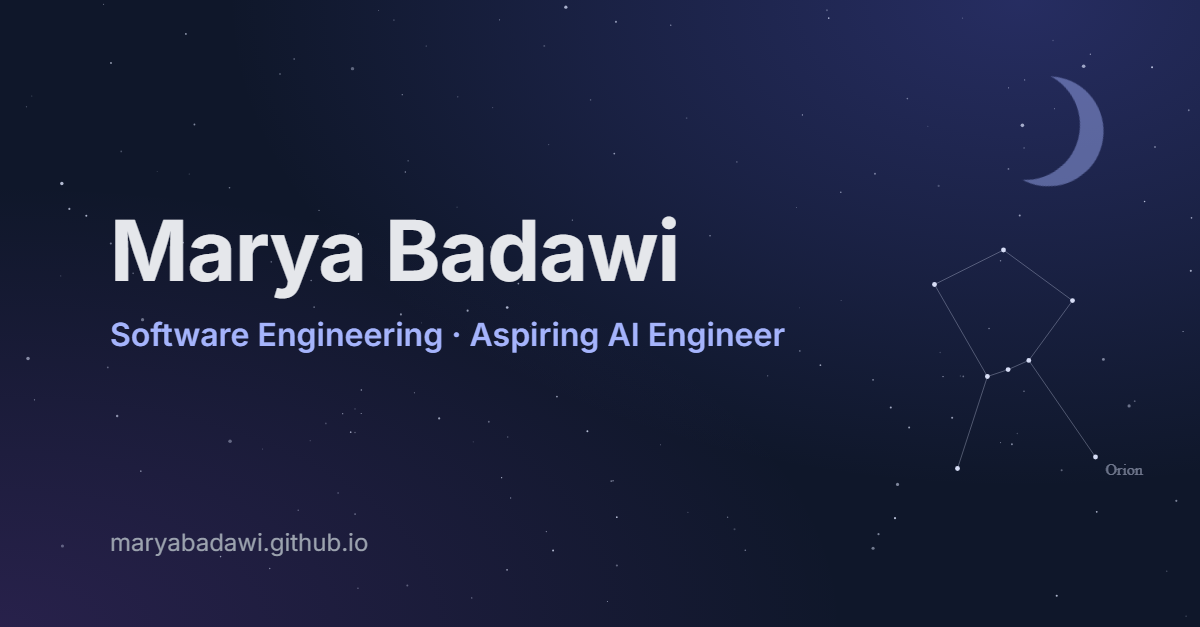
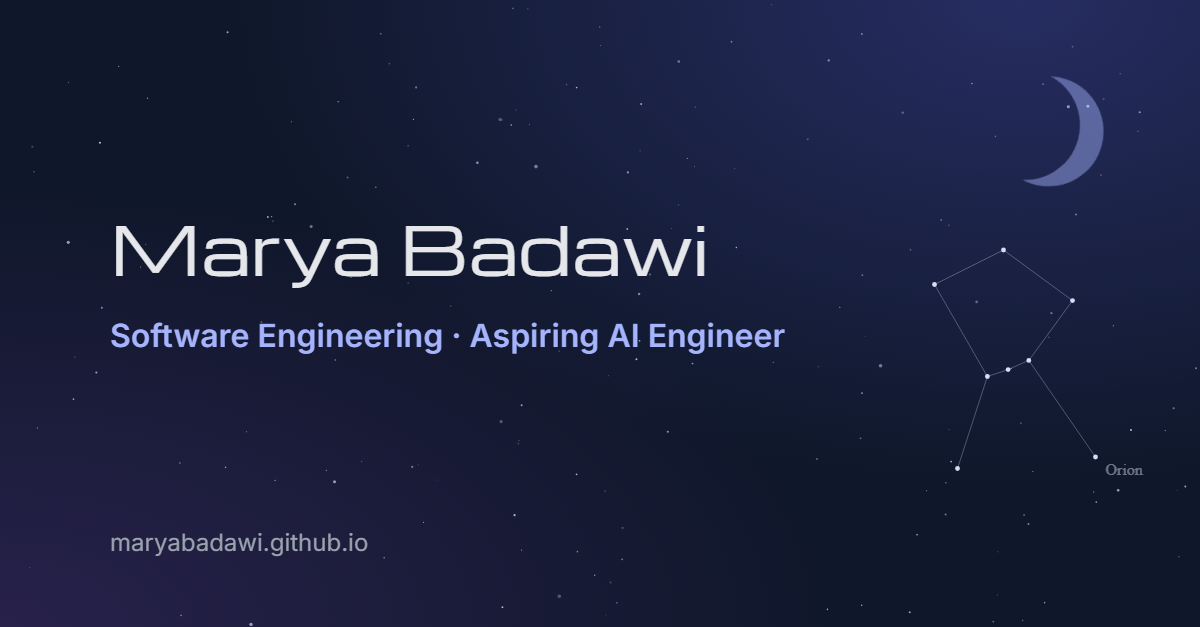
Use Michroma for headings, keep constellation labels clear of text

Changed region(s): [[0.0925, 0.3333, 0.5858, 0.4848], [0.0925, 0.5152, 0.6475, 0.5758]]

diff --git a/style.css b/style.css
@@ -1,4 +1,4 @@
-@import url("https://fonts.googleapis.com/css2?family=Inter:wght@400;600;700&display=swap");
+@import url("https://fonts.googleapis.com/css2?family=Inter:wght@400;600;700&family=Michroma&display=swap");
 
 /* Colours: change these to change the whole site */
 :root {
@@ -93,8 +93,7 @@ nav {
 }
 
 nav .logo {
-  font-weight: 700;
-  font-size: 1.1rem;
+  font-size: 0.95rem;
   color: var(--text);
 }
 
@@ -132,13 +131,21 @@ section {
   scroll-margin-top: 60px;
 }
 
+/* Headings use Michroma: a wide, space-station style font (paragraphs stay in Inter so they're easy to read) */
+h1,
+h2,
+nav .logo {
+  font-family: "Michroma", sans-serif;
+  font-weight: 400;           /* Michroma has only one weight */
+}
+
 h1 {
-  font-size: 2.6rem;
-  margin: 0 0 8px;
+  font-size: 2.3rem;
+  margin: 0 0 12px;
 }
 
 h2 {
-  font-size: 1.6rem;
+  font-size: 1.35rem;
   margin: 0 0 20px;
   color: var(--main);
 }
@@ -376,7 +383,7 @@ footer .updated {
   }
 
   h1 {
-    font-size: 2rem;
+    font-size: 1.55rem;
   }
 
   .moon {

diff --git a/script.js b/script.js
@@ -129,8 +129,8 @@ function makeSky() {
   const margin = (width - CONTENT_WIDTH) / 2;
   const wide = margin >= 170;
   dim = wide ? 1 : 0.45;
-  const size = wide ? Math.min(margin - 50, height * 0.22) : Math.min(width, height) * 0.25;
-  const leftX = () => between(15, Math.max(15, margin - size - 35));
+  const size = wide ? Math.min(margin - 110, height * 0.22) : Math.min(width, height) * 0.25;
+  const leftX = () => between(15, Math.max(15, margin - size - 95)); // 95 = room for the name label
   const rightX = () => width - margin + between(20, Math.max(20, margin - size - 30));
 
   // [x, y] top-left corner for Orion, Ursa Major, Cassiopeia
